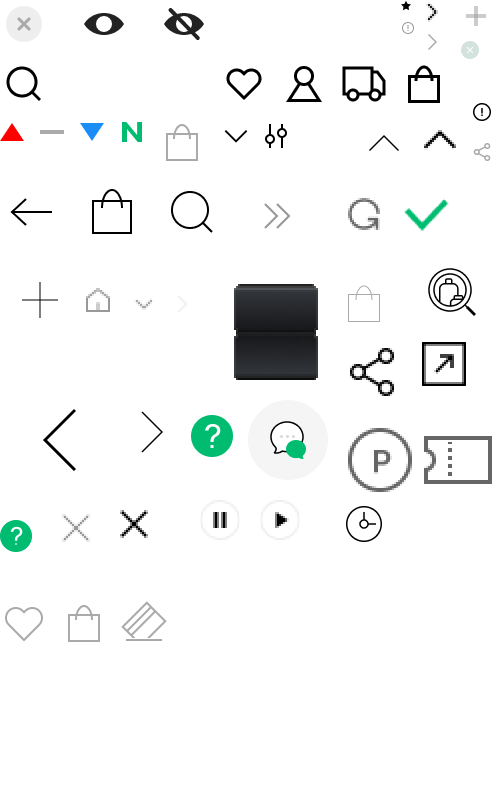
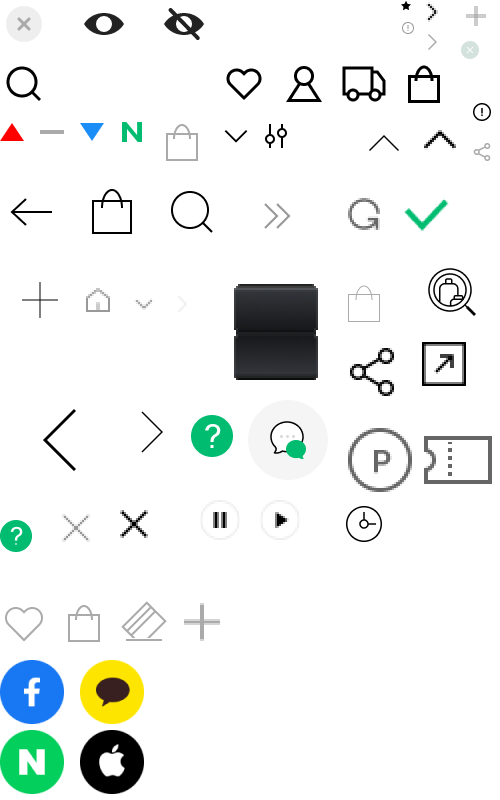
pc 스프라이트 이미지 업데이트 및 데이터 관련 내용

Changed region(s): [[0.0, 0.8125, 0.3, 1.0], [0.36, 0.75, 0.45, 0.8125]]

diff --git a/test/data/publish/dummyData.js b/test/data/publish/dummyData.js
@@ -3,6 +3,135 @@
  * 테스트 용도이므로 TS 불필요
  * jjy11@amorepacific.com
  */
+export const benefit_info = [
+  {
+    title:'',
+    benefit:[
+      '',
+    ],
+    notice: [
+      '',
+    ]
+  },
+  {
+    title:'카카오페이 결제혜택',
+    benefit:[
+      '카카오페이 머니로 결제 시에만 적용 가능(신용카드 제외)',
+      '기간 : 5/9(목) - 5/13(월)',
+      '카카오페이 머니로 3만원 이상 결제 시 5,000원 즉시할인',
+      '공식온라인몰 / 오프라인매장 기간 내 각 1회 할인가능',
+    ],
+    notice: [
+      '카카오톡안에서 개인 신용카드(체크카드포함)를 등록하여 카카오페이 비밀번호로 결제할 수 있는 간편결제입니다.',
+      '본인명의 스마트폰에서 본인명의 카드 등록 후 사용 가능합니다.(카드등록 : 카카오톡 > 더 보기 > 카카오페이 > 카드)',
+      '카드사별 무이자 할부 행사는 카카오페이 결제 창에서 확인 가능합니다.',
+      '결제메시지 요청 시 입력하신 휴대폰 번호로 카카오페이로부터 메시지가 발송됩니다.',
+    ]
+  },
+  {
+    title:'',
+    benefit:[
+      '',
+    ],
+    notice: [
+      '페이코로 결제 완료 시 결제하신 수단으로만 환불 가능합니다.',
+      '신용카드 등록 시 휴대폰과 카드명의자가 동일해야 합니다. (모든 신용/체크카드 가능)',
+      '무이자할부는 PAYCO 결제 창에서 확인하실 수 있습니다.',
+      'PAYCO는 온/오프라인 쇼핑은 물론 송금, 멤버십 적립까지 가능한 통합 서비스입니다.',
+      '휴대폰과 카드 명의자가 동일해야 결제 가능하며, 결제금액 제한은 없습니다.'
+    ]
+  },
+  {
+    title:'토스페이 결제 혜택',
+    benefit:[
+      '토스 페이로 생애 첫 결제 시 2천원 적립!',
+      '토스 페이로 결제 시(토스로 등록된 신용카드 결제 시 제외',
+      '토스 전체 가맹점에서 결제 이력이 없는 경우 적용됩니다.(토스 ID당 1회)',
+      '토스페이 결제 화면에서 생애 첫 결제 혜택이 보이지 않을 경우 대상이 아닙니다.',
+      '생애 첫 결제 프로모션은 기타 할인 및 적립 프로모션과 중복으로 적용이 가능합니다.',
+      '관련 문의는 토스 고객센터(1599-4905)로 문의 부탁드립니다.',
+    ],
+    notice: [
+      '토스페이 결제시 토스페이 또는 등록된 카드로 결제가 가능합니다.',
+      '토스페이로 결제한 경우 환불(또는 부분환불)시 토스페이로 환불됩니다.',
+      '토스페이 앱을 최신 버전으로 업데이트 해주세요. 최신 버전이 아닌 경우 결제가 원활하지 않을 수 있습니다.'
+    ]
+  },
+  {
+    title:'KB페이 결제 혜택',
+    benefit:[
+      'KB Pay 결제 시 적용 (국민카드>KB Pay 선택시에도 적용)',
+      '기간 : 5/9(목) - 5/13(월)',
+      'KB국민카드로 3만원 이상 결제 시 5,000원 즉시할인',
+      '공식온라인몰에서만 진행됩니다.'
+    ],
+    notice: [
+      '이벤트 페이지 참조'
+    ]
+  },
+  {
+    title:'',
+    benefit:[
+      ''
+    ],
+    notice: [
+      '스마트폰 명의자와 카드명의자가 동일한 경우에만 삼성페이 서비스에 카드등록이 가능합니다.',
+      '삼성페이 지원 가능한 단말기는 아래 삼성페이 홈페이지에서 확인 가능합니다. (www.samsungpay.com/sec/Samsung-pay)'
+    ]
+  },
+  {
+    title:'',
+    benefit:[
+      ''
+    ],
+    notice: [
+      ''
+    ]
+  },
+  {
+    title:'',
+    benefit:[
+      ''
+    ],
+    notice: [
+      ''
+    ]
+  },
+  {
+    title:'',
+    benefit:[
+      ''
+    ],
+    notice: [
+      '무통장 입금의 경우 주문접수 후 입금이 되지 않고 3일이 지나면 자동 취소됩니다.',
+      '현금영수증 신청은 주문 시, 각 결제수단(실시간계좌이체, 무통장입금)의 인증 페이지에서 신청 가능합니다.',
+      '추후 신청은 "회원로그인 > 마이페이지 > 증빙서류 발급"에서 가능합니다.',
+      '(비회원은 "비회원 로그인(주문조회) > 증빙서류 발급")',
+      '사업자증빙의 경우 반드시 주문 시 신청하여야 합니다.',
+      '세금계산서는 고객상담실과 상담 후 발급이 가능합니다.'
+    ]
+  },
+  {
+    title:'',
+    benefit:[
+      ''
+    ],
+    notice: [
+      ''
+    ]
+  },
+  {
+    title:'',
+    benefit:[
+      ''
+    ],
+    notice: [
+      ''
+    ]
+  }
+
+]
+
 
 export const etc_info = [
   {
@@ -10,7 +139,7 @@ export const etc_info = [
     input_id:'etcdList1',
     label_for:'etcdList1',
     text:'네이버페이',
-    discont_txt:''
+    discont_txt:'',
   },
     {
     li_id:'etcdList_2',

diff --git a/pages/publish/IN_PC_ORD_01_01.vue b/pages/publish/IN_PC_ORD_01_01.vue
@@ -427,17 +427,13 @@
             <div class="discount_txt" v-if="item.discont_txt">{{ item.discont_txt }}</div>
           </li>
         </ul>
-        <div>
-          <strong></strong>
-          <ul>
-            <li></li>
-          </ul>
-        </div>
-        <div>
-          <strong>유의사항</strong>
-          <ol>
-            <li></li>
-          </ol>
+        <div class="radioTabContents" >
+          <div class="discount_info" v-for="(item, idx) in benefit_info" :key="idx">
+            <h4 v-if="item.title">{{item.title}}</h4>
+            <ul>
+              <li>{{ item.benefit[0] }}</li>
+            </ul>
+          </div>
         </div>
         <div class="paycont">
           <p>
@@ -733,6 +729,7 @@ import { modal } from '~/assets/js/common-ui.js'
 import {Delivery_data} from '../../test/data/publish/dummyData'
 import {bank_info} from '../../test/data/publish/dummyData'
 import {etc_info} from '../../test/data/publish/dummyData'
+import {benefit_info} from '../../test/data/publish/dummyData'
 
 
 definePageMeta({
@@ -1921,6 +1918,48 @@ button.tooltip {
           width:174px;
           height:83px;
           position: relative;
+          &#etcdList_1 {
+            span {
+              &::before {
+                background-position:-66px -695px;
+              }
+            }
+          }
+          &#etcdList_2 {
+            span {
+              &::before {
+                background-position:-130px -670px;
+              }
+            }
+          }
+          &#etcdList_3 {
+            span {
+              &::before {
+                background-position:-65px -670px;
+              }
+            }
+          }
+          &#etcdList_4 {
+            span {
+              &::before {
+                background-position:0px -720px;
+              }
+            }
+          }
+          &#etcdList_5 {
+            span {
+              &::before {
+                background-position:0px -695px;
+              }
+            }
+          }
+          &#etcdList_6 {
+            span {
+              &::before {
+                background-position:-129px -695px;
+              }
+            }
+          }
           input {
             position:absolute;
             z-index: -1;
@@ -1955,11 +1994,10 @@ button.tooltip {
                 content:'';
                 width:60px;
                 height:20px;
-                border:1px solid red;
                 background-image: url('/_nuxt/assets/images/common/icon_bank.png');
                 background-repeat:no-repeat;
                 background-size:250px;
-                background-position:4px 0px;
+                background-position:-2px -672px;
                 text-align:center;
                 display:inline-block;
               }
